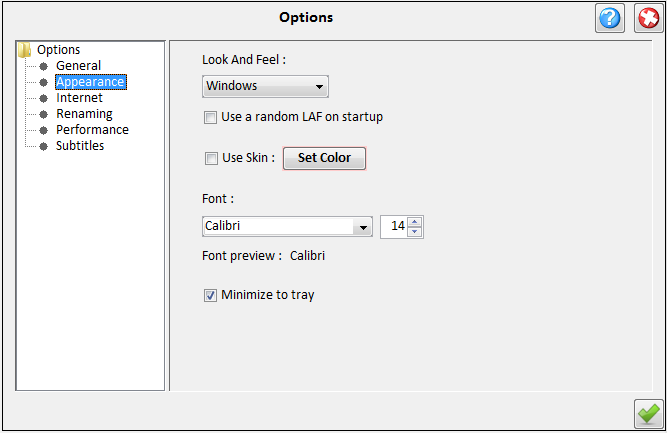
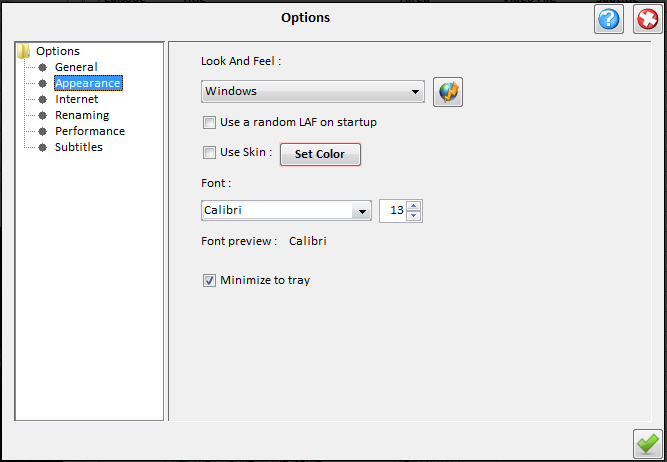
Added button to download additional lafs

diff --git a/src/help/html/appearance_options.html b/src/help/html/appearance_options.html
@@ -12,6 +12,8 @@
         added look and feels. To add a look and feel simple create a directory with its name in the
         lafs subdirectory of the application and copy there the look and feel jar file.
         After restarting the application the look and feel you added will be available in the drop down menu.</li>
+        <li><b>Download look and feels - </b> Click on the button to open the download page of MySerieS where you can download 
+        additional look and feels</li>
         <li><b>Use random look and feel - </b> If you want to use a random look and feel each 
           time the application starts</li>
         <li><b>Use Skin - </b>If you want to use the default java metal look and feel with a custom color</li>

diff --git a/src/help/html/show_errors_panel.html b/src/help/html/show_errors_panel.html
@@ -1,6 +1,6 @@
 <link rel="stylesheet" href="styles.css" type="text/css" />
 <table class="mainTable">
-  <tr><th>The Ratings panel</th></tr>
+  <tr><th>Show errors panel</th></tr>
   <tr><th>
       <img src="../images/show_errors_panel.png"><br>
     </th></tr>

diff --git a/src/tools/options/panels/Appearance.java b/src/tools/options/panels/Appearance.java
@@ -26,6 +26,8 @@ import javax.swing.DefaultComboBoxModel;
 import javax.swing.JColorChooser;
 import javax.swing.JTextField;
 import lap.LafAndPlay;
+import myComponents.MyUsefulFunctions;
+import myseries.MySeriesConstants;
 import tools.MySeriesLogger;
 import tools.options.MyOptionsFontRenderer;
 import tools.options.Options;
@@ -144,6 +146,7 @@ public class Appearance extends javax.swing.JPanel {
     label_preview = new javax.swing.JLabel();
     cb_minimizeTray = new javax.swing.JCheckBox();
     cb_randomizeLaf = new javax.swing.JCheckBox();
+    bt_downloadLafs = new myComponents.myGUI.buttons.MyButtonInternet();
 
     setName("Appearance"); // NOI18N
     setPreferredSize(new java.awt.Dimension(350, 229));
@@ -228,6 +231,13 @@ public class Appearance extends javax.swing.JPanel {
     cb_randomizeLaf.setName(Options.RANDOMIZE_LAF);
     cb_randomizeLaf.setOpaque(false);
 
+    bt_downloadLafs.setToolTipText("Download Look and Feels");
+    bt_downloadLafs.addActionListener(new java.awt.event.ActionListener() {
+      public void actionPerformed(java.awt.event.ActionEvent evt) {
+        bt_downloadLafsActionPerformed(evt);
+      }
+    });
+
     javax.swing.GroupLayout layout = new javax.swing.GroupLayout(this);
     this.setLayout(layout);
     layout.setHorizontalGroup(
@@ -254,10 +264,12 @@ public class Appearance extends javax.swing.JPanel {
                 .addComponent(label_preview, javax.swing.GroupLayout.DEFAULT_SIZE, 188, Short.MAX_VALUE))
               .addGroup(layout.createSequentialGroup()
                 .addComponent(combobox_laf, javax.swing.GroupLayout.PREFERRED_SIZE, 224, javax.swing.GroupLayout.PREFERRED_SIZE)
-                .addGap(51, 51, 51)))
+                .addPreferredGap(javax.swing.LayoutStyle.ComponentPlacement.RELATED)
+                .addComponent(bt_downloadLafs, javax.swing.GroupLayout.PREFERRED_SIZE, javax.swing.GroupLayout.DEFAULT_SIZE, javax.swing.GroupLayout.PREFERRED_SIZE)
+                .addGap(13, 13, 13)))
             .addGap(65, 65, 65))
           .addGroup(layout.createSequentialGroup()
-            .addComponent(cb_randomizeLaf, javax.swing.GroupLayout.DEFAULT_SIZE, 275, Short.MAX_VALUE)
+            .addComponent(cb_randomizeLaf, javax.swing.GroupLayout.DEFAULT_SIZE, 273, Short.MAX_VALUE)
             .addGap(67, 67, 67))
           .addGroup(layout.createSequentialGroup()
             .addComponent(jLabel10, javax.swing.GroupLayout.DEFAULT_SIZE, 275, Short.MAX_VALUE)
@@ -269,7 +281,9 @@ public class Appearance extends javax.swing.JPanel {
         .addContainerGap()
         .addComponent(jLabel5)
         .addPreferredGap(javax.swing.LayoutStyle.ComponentPlacement.RELATED)
-        .addComponent(combobox_laf, javax.swing.GroupLayout.PREFERRED_SIZE, javax.swing.GroupLayout.DEFAULT_SIZE, javax.swing.GroupLayout.PREFERRED_SIZE)
+        .addGroup(layout.createParallelGroup(javax.swing.GroupLayout.Alignment.CENTER)
+          .addComponent(combobox_laf, javax.swing.GroupLayout.PREFERRED_SIZE, javax.swing.GroupLayout.DEFAULT_SIZE, javax.swing.GroupLayout.PREFERRED_SIZE)
+          .addComponent(bt_downloadLafs, javax.swing.GroupLayout.PREFERRED_SIZE, javax.swing.GroupLayout.DEFAULT_SIZE, javax.swing.GroupLayout.PREFERRED_SIZE))
         .addPreferredGap(javax.swing.LayoutStyle.ComponentPlacement.RELATED)
         .addComponent(cb_randomizeLaf)
         .addPreferredGap(javax.swing.LayoutStyle.ComponentPlacement.UNRELATED)
@@ -288,7 +302,7 @@ public class Appearance extends javax.swing.JPanel {
           .addComponent(label_preview, javax.swing.GroupLayout.PREFERRED_SIZE, 22, javax.swing.GroupLayout.PREFERRED_SIZE))
         .addGap(18, 18, 18)
         .addComponent(cb_minimizeTray)
-        .addContainerGap(34, Short.MAX_VALUE))
+        .addContainerGap(javax.swing.GroupLayout.DEFAULT_SIZE, Short.MAX_VALUE))
     );
 
     createLafModel();
@@ -327,11 +341,16 @@ public class Appearance extends javax.swing.JPanel {
       label_preview.setFont(newFont);
 }//GEN-LAST:event_spinner_fontSizeStateChanged
 
+    private void bt_downloadLafsActionPerformed(java.awt.event.ActionEvent evt) {//GEN-FIRST:event_bt_downloadLafsActionPerformed
+      MyUsefulFunctions.browse(MySeriesConstants.GOOGLE_CODE_DOWNLOAD_URL);
+    }//GEN-LAST:event_bt_downloadLafsActionPerformed
+
   private Font getSelectedFont() {
     Font font = new Font((String) combobox_fonts.getSelectedItem(), Font.PLAIN, (int) Float.parseFloat(String.valueOf(spinner_fontSize.getValue())));
     return font;
   }
   // Variables declaration - do not modify//GEN-BEGIN:variables
+  private myComponents.myGUI.buttons.MyButtonInternet bt_downloadLafs;
   public javax.swing.JButton button_BGColor;
   public javax.swing.JCheckBox cb_minimizeTray;
   public javax.swing.JCheckBox cb_randomizeLaf;

diff --git a/src/myseries/MySeriesConstants.java b/src/myseries/MySeriesConstants.java
@@ -20,6 +20,7 @@ public interface MySeriesConstants {
   String DONATION_URL = "https://www.paypal.com/cgi-bin/webscr?cmd=_s-xclick&hosted_button_id=A67FZUFW6S8HE";
   String GOOGLE_CODE_URL = "http://code.google.com/p/myseriesproject/";
   String GOOGLE_CODE_TRACKER = "http://code.google.com/p/myseriesproject/issues/list";
+  String GOOGLE_CODE_DOWNLOAD_URL = "http://code.google.com/p/myseriesproject/downloads/list";
   String EMAIL = "lordovol@hotmail.com";
   String APPLICATION_ICON = "/images/icon.png";
   String LOGO = "/images/logo.png";
